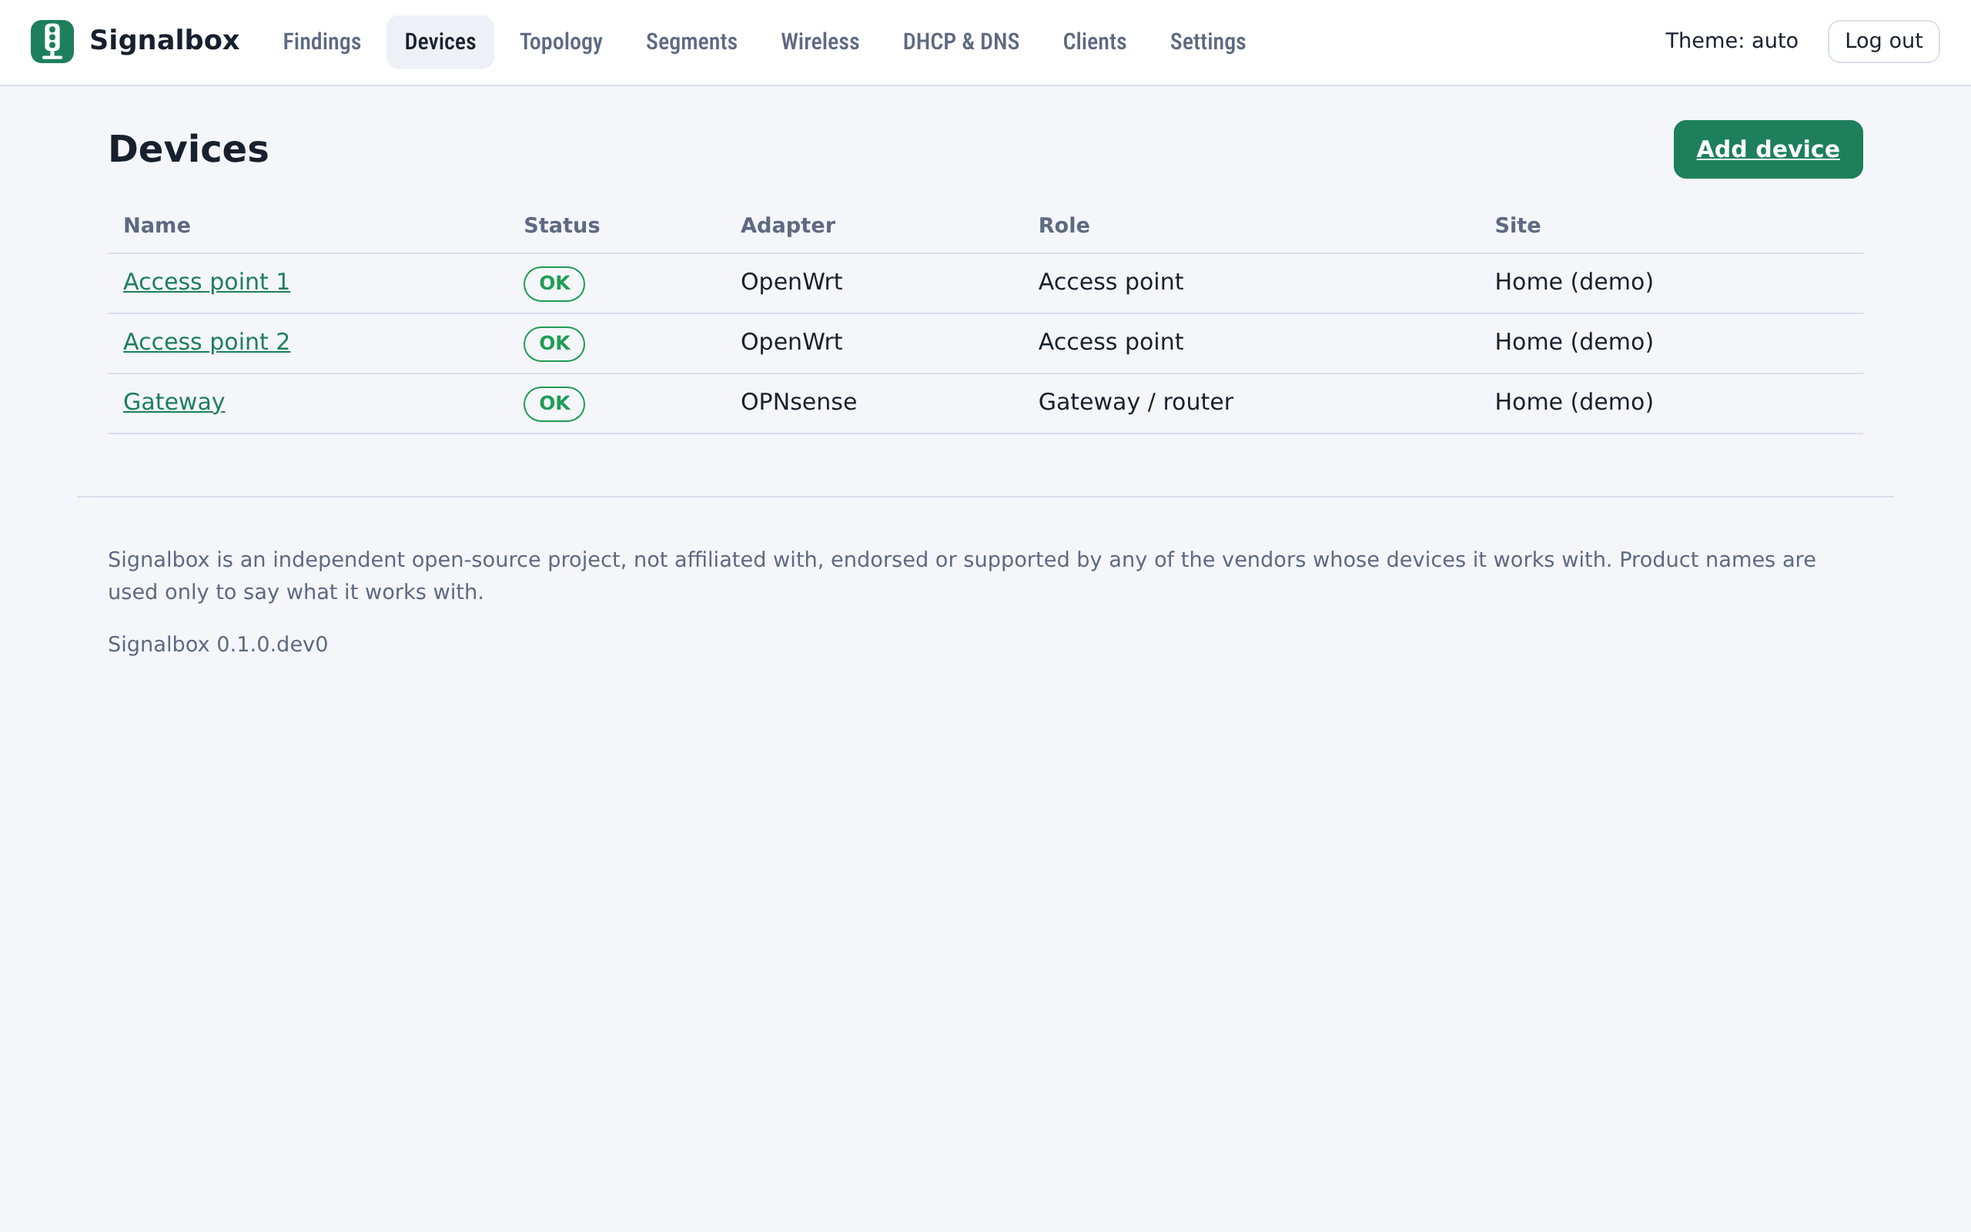
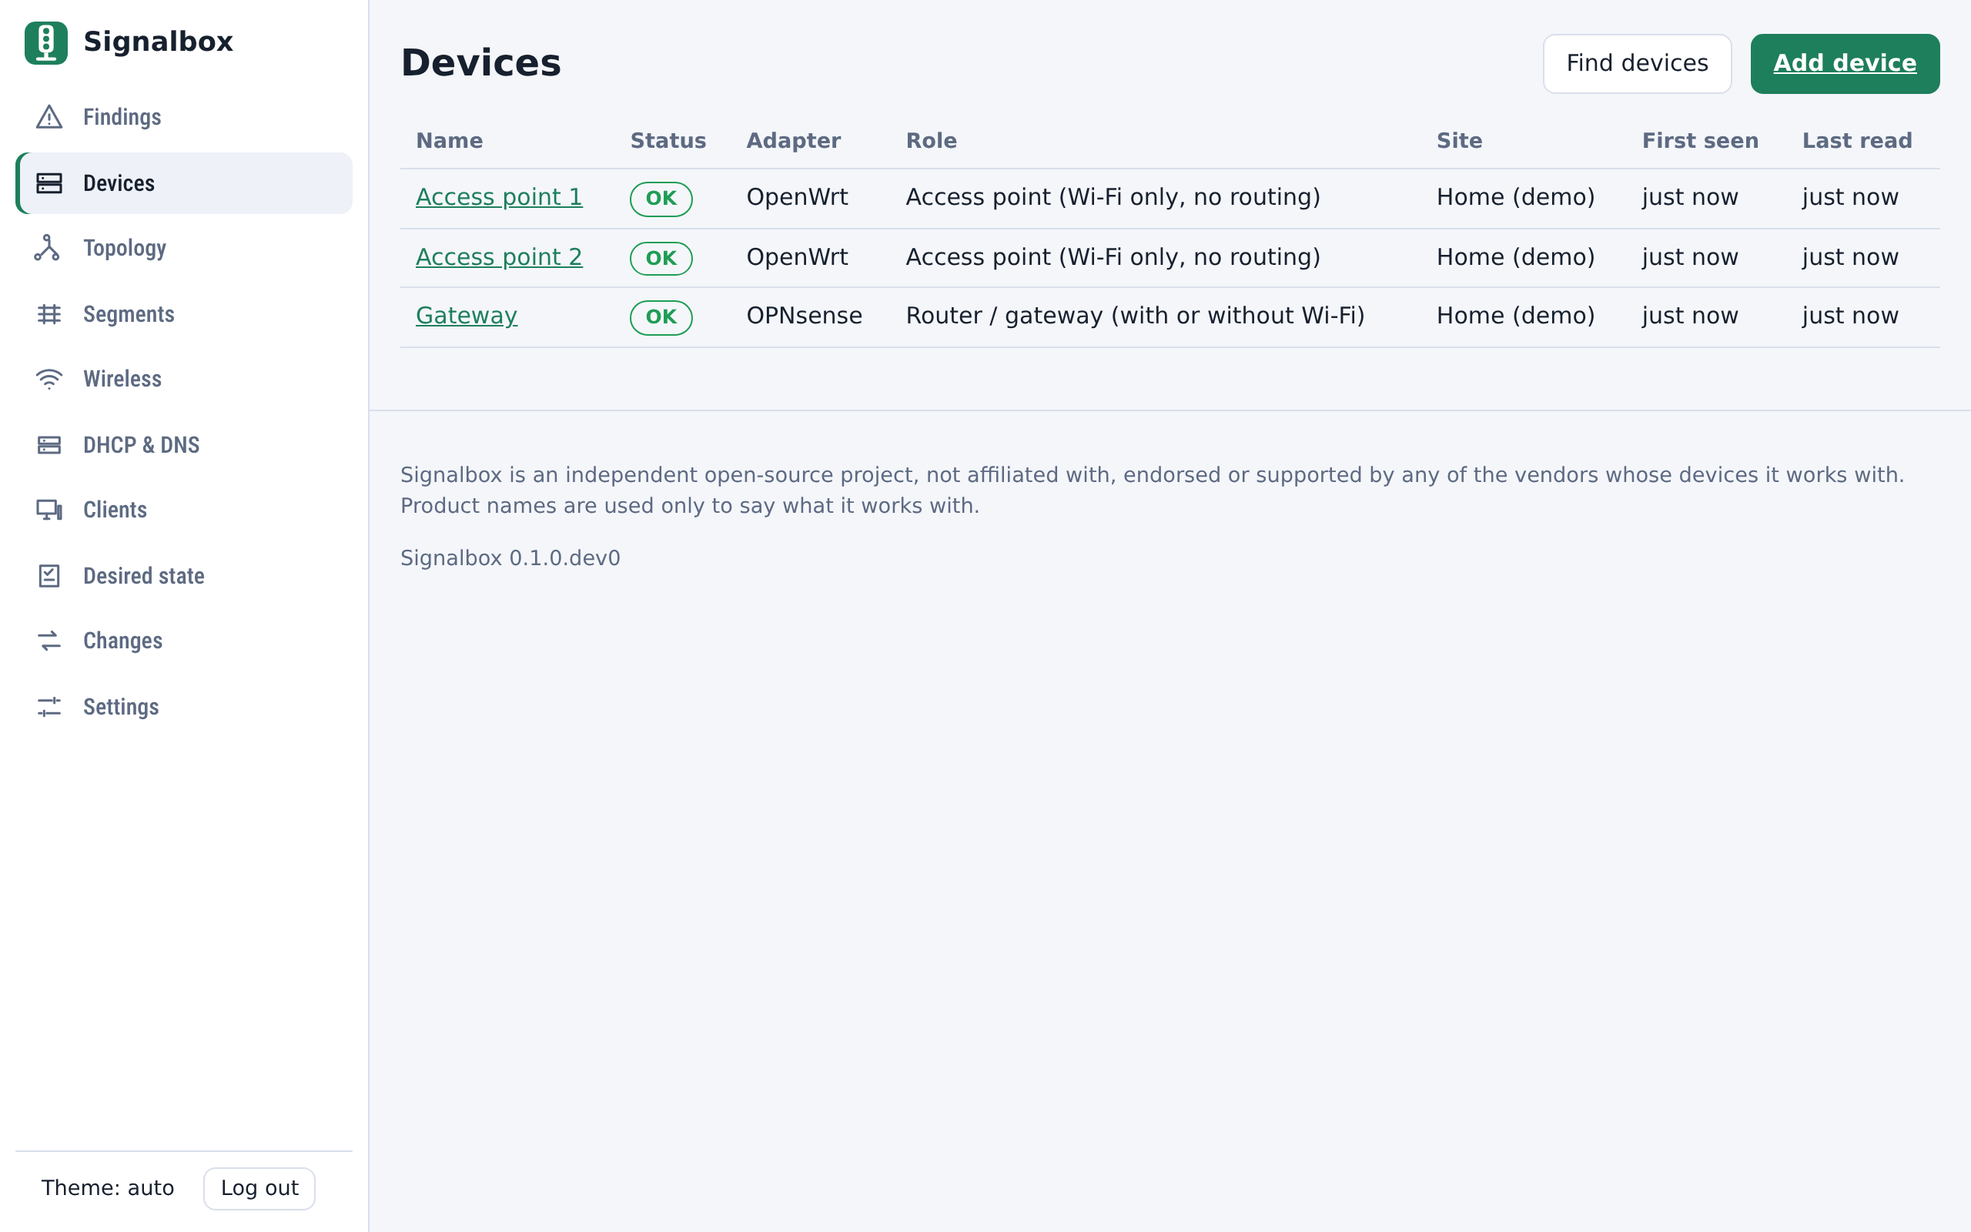
UI: side bar on wide screens, menu drawer on narrow ones (#230)
- Left side bar (icons, brand, theme, log out) from 1100 px; compact top bar with menu button below
- Drawer: aria-expanded, inert page behind, focus trap, Esc/scrim/navigation close
- e2e tests at phone, tablet and desktop sizes in both themes
- Screenshots regenerated (demo data), new phone menu shot; fix dark-theme switch in the tool

diff --git a/src/signalbox/web/static/nav.js b/src/signalbox/web/static/nav.js
@@ -1,0 +1,114 @@
+// Navigation shell: a side bar on wide screens, a compact top bar plus the same side bar as a drawer
+// on narrow ones. Icons are built with setAttribute, never from markup strings.
+import { h, s } from './util.js';
+
+export const WIDE = window.matchMedia('(min-width: 1100px)');
+
+// 24x24 stroke icons, one path string per shape.
+const ICONS = {
+  findings: ['M12 3 2.5 20h19L12 3z', 'M12 10v4', 'M12 17.2v.1'],
+  devices: ['M3 5h18v6H3z', 'M3 13h18v6H3z', 'M7 8h.01', 'M7 16h.01'],
+  topology: ['M12 4a2 2 0 1 0 0 .01', 'M5 19a2 2 0 1 0 0 .01', 'M19 19a2 2 0 1 0 0 .01', 'M12 6v5l-6 6', 'M12 11l6 6'],
+  segments: ['M4 7h16', 'M4 12h16', 'M4 17h16', 'M8 5v14', 'M16 5v14'],
+  wireless: ['M2.5 9a14 14 0 0 1 19 0', 'M5.5 12.5a9.5 9.5 0 0 1 13 0', 'M8.8 16a5 5 0 0 1 6.4 0', 'M12 19.5v.01'],
+  services: ['M4 6h16v5H4z', 'M4 13h16v5H4z', 'M8 8.5h.01', 'M8 15.5h.01'],
+  clients: ['M3 5h14v10H3z', 'M8 19h4', 'M10 15v4', 'M19 9h2v10h-2z'],
+  desired: ['M5 4h14v16H5z', 'M8.5 9l2 2 4-4', 'M8.5 15h7'],
+  changes: ['M4 8h13l-3-3', 'M20 16H7l3 3'],
+  settings: ['M4 7h10', 'M18 7h2', 'M4 17h2', 'M10 17h10', 'M16 5v4', 'M8 15v4'],
+  menu: ['M4 6h16', 'M4 12h16', 'M4 18h16'],
+  close: ['M6 6l12 12', 'M18 6L6 18'],
+};
+
+export function icon(name) {
+  return s(
+    'svg',
+    { class: 'icon', viewBox: '0 0 24 24', width: '20', height: '20', fill: 'none', stroke: 'currentColor', 'stroke-width': '1.8', 'stroke-linecap': 'round', 'stroke-linejoin': 'round', 'aria-hidden': 'true', focusable: 'false' },
+    ICONS[name].map((d) => s('path', { d })),
+  );
+}
+
+const FOCUSABLE = 'a[href], button:not([disabled])';
+let closeCurrent = null;
+
+// Close the drawer when the screen becomes wide while it is open.
+WIDE.addEventListener('change', () => {
+  if (WIDE.matches && closeCurrent) closeCurrent(false);
+});
+
+/**
+ * items: [[key, href, label]]; current: key of the active section; brand(): a logo node;
+ * actions: node with theme and log out. Returns {shell, content}; the caller fills content.
+ */
+export function buildShell({ items, current, brand, actions }) {
+  const currentLabel = (items.find(([key]) => key === current) || [])[2] || '';
+  const menuBtn = h(
+    'button',
+    { class: 'btn menu-btn', type: 'button', 'aria-label': 'Menu', 'aria-expanded': 'false', 'aria-controls': 'sidebar', 'data-testid': 'nav-menu' },
+    icon('menu'),
+  );
+  const topbar = h(
+    'header',
+    { class: 'topbar' },
+    menuBtn,
+    h('a', { class: 'brand', href: '#/', 'aria-label': 'Signalbox' }, brand(), h('span', { class: 'brand-text' }, 'Signalbox')),
+    h('span', { class: 'current-section', 'data-testid': 'nav-current' }, currentLabel),
+  );
+  const nav = h(
+    'nav',
+    { class: 'nav', 'aria-label': 'Main' },
+    items.map(([key, href, text]) =>
+      h('a', { href, 'aria-current': current === key ? 'page' : null, 'data-testid': `nav-${key}` }, icon(key), h('span', { class: 'nav-label' }, text)),
+    ),
+  );
+  const closeBtn = h('button', { class: 'btn ghost close-btn', type: 'button', 'aria-label': 'Close menu', 'data-testid': 'nav-close' }, icon('close'));
+  const sidebar = h(
+    'div',
+    { class: 'sidebar', id: 'sidebar' },
+    h('div', { class: 'sidebar-head' }, h('a', { class: 'brand', href: '#/', 'aria-label': 'Signalbox, start page' }, brand(), 'Signalbox'), closeBtn),
+    nav,
+    actions,
+  );
+  const scrim = h('div', { class: 'scrim', 'data-testid': 'nav-scrim' });
+  const content = h('div', { class: 'content' });
+  const shell = h('div', { class: 'shell' }, topbar, sidebar, scrim, content);
+
+  const setOpen = (open, restoreFocus = true) => {
+    shell.classList.toggle('drawer-open', open);
+    menuBtn.setAttribute('aria-expanded', String(open));
+    for (const el of [topbar, content]) el.toggleAttribute('inert', open);
+    if (open) {
+      closeCurrent = () => setOpen(false, false);
+      (nav.querySelector('[aria-current="page"]') || nav.querySelector('a')).focus();
+    } else {
+      closeCurrent = null;
+      if (restoreFocus && sidebar.contains(document.activeElement)) menuBtn.focus();
+    }
+  };
+  menuBtn.addEventListener('click', () => setOpen(!shell.classList.contains('drawer-open')));
+  closeBtn.addEventListener('click', () => setOpen(false));
+  scrim.addEventListener('click', () => setOpen(false));
+  // A link to the page already shown does not change the hash, so close explicitly.
+  nav.addEventListener('click', (e) => {
+    if (e.target.closest('a')) setOpen(false, false);
+  });
+  sidebar.addEventListener('keydown', (e) => {
+    if (!shell.classList.contains('drawer-open')) return;
+    if (e.key === 'Escape') {
+      e.preventDefault();
+      setOpen(false);
+    } else if (e.key === 'Tab') {
+      const stops = [...sidebar.querySelectorAll(FOCUSABLE)].filter((el) => el.offsetParent !== null);
+      const first = stops[0];
+      const last = stops[stops.length - 1];
+      if (e.shiftKey && document.activeElement === first) {
+        e.preventDefault();
+        last.focus();
+      } else if (!e.shiftKey && document.activeElement === last) {
+        e.preventDefault();
+        first.focus();
+      }
+    }
+  });
+  return { shell, content };
+}

diff --git a/src/signalbox/web/static/style.css b/src/signalbox/web/static/style.css
@@ -33,14 +33,36 @@ h1 { font-size: 1.5rem; } h2 { font-size: 1.2rem; } h3 { font-size: 1.02rem; }
 :focus-visible { outline: 2px solid var(--accent); outline-offset: 2px; }
 [hidden] { display: none !important; }
 
-.topbar { display: flex; align-items: center; gap: 16px; padding: 10px 20px; background: var(--surface); border-bottom: 1px solid var(--border); position: sticky; top: 0; z-index: 10; }
-.brand { display: flex; align-items: center; gap: 10px; font-weight: 700; font-size: 1.1rem; color: var(--text); text-decoration: none; }
-.brand .logo { width: 28px; height: 28px; border-radius: 7px; }
+.brand { display: flex; align-items: center; gap: 10px; font-weight: 700; font-size: 1.1rem; color: var(--text); text-decoration: none; white-space: nowrap; }
+.brand .logo { width: 28px; height: 28px; border-radius: 7px; flex: none; }
 .login .brand .logo { width: 40px; height: 40px; border-radius: 10px; }
-.nav { display: flex; gap: 4px; flex: 1; }
-.nav a { padding: 6px 12px; border-radius: 8px; color: var(--muted); text-decoration: none; font-weight: 500; }
-.nav a[aria-current="page"] { background: var(--surface-2); color: var(--text); }
-.topbar-actions { display: flex; gap: 8px; align-items: center; }
+.content { min-width: 0; }
+
+/* navigation: side bar on wide screens, drawer behind a menu button on narrow ones */
+.topbar { display: none; }
+.sidebar { position: fixed; inset: 0 auto 0 0; width: 240px; display: flex; flex-direction: column; gap: 8px; padding: 14px 10px; background: var(--surface); border-right: 1px solid var(--border); z-index: 40; overflow-y: auto; }
+.sidebar-head { display: flex; align-items: center; justify-content: space-between; padding: 0 6px 6px; }
+.close-btn { display: none; padding: 4px 6px; }
+.nav { display: flex; flex-direction: column; gap: 2px; flex: 1; }
+.nav a { display: flex; align-items: center; gap: 12px; padding: 9px 12px; border-radius: 8px; color: var(--muted); text-decoration: none; font-weight: 500; white-space: nowrap; }
+.nav a:hover { background: var(--surface-2); }
+.nav a[aria-current="page"] { background: var(--surface-2); color: var(--text); box-shadow: inset 3px 0 0 var(--accent); }
+.nav .icon, .menu-btn .icon, .close-btn .icon { flex: none; }
+.sidebar-actions { display: flex; gap: 8px; align-items: center; flex-wrap: wrap; padding: 10px 6px 0; border-top: 1px solid var(--border); }
+.scrim { display: none; }
+.content { margin-left: 240px; }
+@media (max-width: 1099px) {
+  .content { margin-left: 0; }
+  .topbar { display: flex; align-items: center; gap: 10px; padding: 6px 10px; background: var(--surface); border-bottom: 1px solid var(--border); position: sticky; top: 0; z-index: 10; }
+  .menu-btn { display: flex; padding: 5px 8px; flex: none; }
+  .current-section { margin-left: auto; min-width: 0; overflow: hidden; text-overflow: ellipsis; white-space: nowrap; font-weight: 600; }
+  .sidebar { width: min(300px, 86vw); transform: translateX(-100%); visibility: hidden; transition: transform .2s ease, visibility 0s .2s; box-shadow: var(--shadow); }
+  .drawer-open .sidebar { transform: none; visibility: visible; transition: transform .2s ease; }
+  .close-btn { display: block; }
+  .drawer-open .scrim { display: block; position: fixed; inset: 0; background: rgb(8 12 22 / 55%); z-index: 30; }
+}
+@media (max-width: 420px) { .brand-text { display: none; } }
+@media (prefers-reduced-motion: reduce) { .sidebar { transition: none !important; } }
 main { max-width: 1180px; margin: 0 auto; padding: 22px 20px 40px; }
 .banner { background: color-mix(in srgb, var(--warn) 18%, var(--surface)); border-bottom: 1px solid var(--warn); padding: 6px 20px; text-align: center; font-size: .9rem; }
 footer { max-width: 1180px; margin: 0 auto; padding: 18px 20px 30px; color: var(--muted); font-size: .85rem; border-top: 1px solid var(--border); }
@@ -191,11 +213,6 @@ legend { font-weight: 600; padding: 0 4px; }
 /* phones */
 @media (max-width: 640px) {
   main { padding: 10px 10px 24px; }
-  .topbar { position: static; padding: 8px 10px; gap: 8px; flex-wrap: wrap; }
-  .topbar-actions { margin-left: auto; }
-  .topbar-actions .btn { padding: 3px 8px; }
-  .nav { order: 3; flex-basis: 100%; flex-wrap: wrap; }
-  .nav a { padding: 4px 8px; }
   .card { padding: 12px; border-radius: 8px; }
   .page-head h1 { font-size: 1.25rem; }
   input[type=text], input[type=password], input[type=number], input[type=search], select, textarea { max-width: none; }

diff --git a/src/signalbox/web/static/app.js b/src/signalbox/web/static/app.js
@@ -1,7 +1,8 @@
 // Entry point: session handling, shell and hash router.
 import { get, onUnauthorized, post } from './api.js';
-import { append, clear, h } from './util.js';
+import { clear, h } from './util.js';
 import { showError } from './ui.js';
+import { buildShell } from './nav.js';
 import { renderFindings } from './views/findings.js';
 import { renderDevices, renderDeviceForm } from './views/devices.js';
 import { renderDevice } from './views/device.js';
@@ -146,14 +147,9 @@ async function render() {
   const route = routeInfo();
   const session = state.session;
   clear(root);
-  const nav = h(
-    'nav',
-    { class: 'nav', 'aria-label': 'Main' },
-    NAV.map(([key, href, text]) => h('a', { href, 'aria-current': route.nav === key ? 'page' : null, 'data-testid': `nav-${key}` }, text)),
-  );
   const actions = h(
     'div',
-    { class: 'topbar-actions' },
+    { class: 'sidebar-actions' },
     themeToggle(),
     h(
       'button',
@@ -169,9 +165,10 @@ async function render() {
       'Log out',
     ),
   );
-  append(root, [h('header', { class: 'topbar' }, h('a', { class: 'brand', href: '#/' }, LOGO(), 'Signalbox'), nav, actions)]);
+  const { shell, content } = buildShell({ items: NAV, current: route.nav, brand: LOGO, actions });
+  root.append(shell);
   const main = h('main', { id: 'main', tabindex: '-1' });
-  root.append(main, footer(session));
+  content.append(main, footer(session));
   try {
     if (route.name === 'findings') await renderFindings(main, ctx);
     else if (route.name === 'devices') await renderDevices(main, ctx);

diff --git a/tests/e2e/test_ui.py b/tests/e2e/test_ui.py
@@ -380,7 +380,7 @@ def test_phone_has_no_horizontal_scroll(page: Any, server: Any, hash_: str) -> N
     page.goto(server.url)
     page.get_by_test_id("login-password").fill(PASSWORD)
     page.get_by_test_id("login-submit").click()
-    page.get_by_test_id("logout").wait_for()
+    page.get_by_test_id("logout").wait_for(state="attached")
     page.server = server
     add_site(page)
     add_lab(page, "Router")
@@ -690,3 +690,125 @@ def test_acknowledge_a_finding_and_annotate_objects(app: Any) -> None:
     app.get_by_test_id("client-notes").click()
     app.get_by_test_id("note-remove").click()
     expect(app.get_by_test_id("client-label")).to_have_count(0)
+
+
+def _login(page: Any, server: Any, width: int, height: int) -> None:
+    page.set_viewport_size({"width": width, "height": height})
+    page.set_default_timeout(15000)
+    page.goto(server.url)
+    page.get_by_test_id("login-password").fill(PASSWORD)
+    page.get_by_test_id("login-submit").click()
+    page.get_by_test_id("nav-findings").wait_for(state="attached")
+    page.server = server
+
+
+def _too_wide(page: Any) -> list[str]:
+    result: list[str] = page.evaluate(
+        """() => [...document.querySelectorAll('body *')]
+          .filter((e) => { const r = e.getBoundingClientRect();
+            return r.width > 0 && getComputedStyle(e).visibility !== 'hidden'
+              && !e.closest('.table-wrap, .topo-wrap, pre, svg')
+              && r.right > window.innerWidth + 1; })
+          .map((e) => e.tagName + '.' + e.className)"""
+    )
+    return result
+
+
+def _no_wrapped_labels(page: Any) -> None:
+    heights = page.evaluate(
+        "[...document.querySelectorAll('.nav a')].map((a) => a.getBoundingClientRect().height)"
+    )
+    assert max(heights) - min(heights) < 2, heights
+
+
+@pytest.mark.parametrize("theme", ["light", "dark"])
+@pytest.mark.parametrize("size", [(390, 844), (320, 640), (820, 1180)])
+def test_narrow_screens_use_a_drawer(
+    page: Any, server: Any, size: tuple[int, int], theme: str
+) -> None:
+    _login(page, server, *size)
+    page.evaluate(f"localStorage.setItem('theme', '{theme}')")
+    page.reload()
+    menu = page.get_by_test_id("nav-menu")
+    expect(menu).to_be_visible()
+    expect(menu).to_have_attribute("aria-expanded", "false")
+    expect(page.get_by_test_id("logout")).to_be_hidden()
+    expect(page.get_by_test_id("nav-current")).to_have_text("Findings")
+    assert page.evaluate("document.documentElement.scrollWidth <= window.innerWidth")
+    assert page.locator("header.topbar").bounding_box()["height"] < 70  # one row
+
+    menu.click()
+    expect(menu).to_have_attribute("aria-expanded", "true")
+    expect(page.locator("nav[aria-label=Main]")).to_be_visible()
+    expect(page.get_by_test_id("nav-findings")).to_be_focused()
+    expect(page.get_by_test_id("theme")).to_be_visible()
+    expect(page.get_by_test_id("logout")).to_be_visible()
+    _no_wrapped_labels(page)
+    assert _too_wide(page) == []
+    expect(page.get_by_test_id("theme")).to_have_text(f"Theme: {theme}")
+    page.get_by_test_id("theme").click()
+    expect(page.get_by_test_id("theme")).not_to_have_text(f"Theme: {theme}")
+
+    page.keyboard.press("Escape")  # Esc closes and gives the focus back
+    expect(menu).to_have_attribute("aria-expanded", "false")
+    expect(menu).to_be_focused()
+    expect(page.get_by_test_id("logout")).to_be_hidden()
+
+    menu.click()  # a tap outside closes
+    page.get_by_test_id("nav-scrim").click(position={"x": size[0] - 5, "y": 300})
+    expect(menu).to_have_attribute("aria-expanded", "false")
+
+    menu.click()  # focus stays inside the drawer
+    for _ in range(14):
+        page.keyboard.press("Tab")
+        assert page.evaluate("!!document.activeElement.closest('.sidebar')")
+
+    page.get_by_test_id("nav-services").click()  # closes on navigation
+    expect(page.get_by_test_id("nav-current")).to_have_text("DHCP & DNS")
+    expect(menu).to_have_attribute("aria-expanded", "false")
+    expect(page.get_by_test_id("logout")).to_be_hidden()
+    menu.click()
+    expect(page.get_by_test_id("nav-services")).to_have_attribute("aria-current", "page")
+    page.get_by_test_id("nav-services").click()  # same page: still closes
+    expect(menu).to_have_attribute("aria-expanded", "false")
+    menu.click()
+    page.get_by_test_id("logout").click()
+    expect(page.get_by_test_id("login-submit")).to_be_visible()
+
+
+@pytest.mark.parametrize("theme", ["light", "dark"])
+@pytest.mark.parametrize("size", [(1280, 800), (1440, 900), (1100, 700)])
+def test_wide_screens_have_a_side_bar(
+    page: Any, server: Any, size: tuple[int, int], theme: str
+) -> None:
+    _login(page, server, *size)
+    page.evaluate(f"localStorage.setItem('theme', '{theme}')")
+    page.reload()
+    expect(page.get_by_test_id("nav-menu")).to_be_hidden()
+    for key in [
+        "findings", "devices", "topology", "segments", "wireless",
+        "services", "clients", "desired", "changes", "settings",
+    ]:  # fmt: skip
+        expect(page.get_by_test_id(f"nav-{key}")).to_be_visible()
+    expect(page.get_by_test_id("theme")).to_be_visible()
+    expect(page.get_by_test_id("logout")).to_be_visible()
+    _no_wrapped_labels(page)
+    assert _too_wide(page) == []
+    box = page.locator(".sidebar").bounding_box()
+    main = page.locator("main").bounding_box()
+    assert box["x"] == 0 and main["x"] >= box["width"]
+    page.get_by_test_id("nav-services").click()
+    expect(page.get_by_test_id("nav-services")).to_have_attribute("aria-current", "page")
+    expect(page.get_by_test_id("nav-findings")).not_to_have_attribute("aria-current", "page")
+    page.get_by_test_id("logout").click()
+    expect(page.get_by_test_id("login-submit")).to_be_visible()
+
+
+def test_drawer_closes_when_the_screen_gets_wide(page: Any, server: Any) -> None:
+    _login(page, server, 800, 900)
+    page.get_by_test_id("nav-menu").click()
+    page.set_viewport_size({"width": 1280, "height": 900})
+    expect(page.get_by_test_id("nav-menu")).to_be_hidden()
+    expect(page.get_by_test_id("logout")).to_be_visible()
+    page.get_by_test_id("nav-devices").click()
+    expect(page.get_by_test_id("nav-devices")).to_have_attribute("aria-current", "page")

diff --git a/tools/screenshots.py b/tools/screenshots.py
@@ -68,7 +68,7 @@ def main() -> None:
                     login(page, base)
                     for name, route in DESKTOP:
                         shoot(page, base, name, route)
-                    page.evaluate("localStorage.set_item('theme', 'dark')")
+                    page.evaluate("localStorage.setItem('theme', 'dark')")
                     page.reload()
                     shoot(page, base, "findings-dark", "#/")
                     page.evaluate("localStorage.removeItem('theme')")
@@ -76,6 +76,9 @@ def main() -> None:
                     login(phone, base)
                     for name, route in PHONE:
                         shoot(phone, base, name, route)
+                    phone.get_by_test_id("nav-menu").click()
+                    phone.wait_for_timeout(400)
+                    phone.screenshot(path=str(OUT / "phone-menu.png"), full_page=False)
                     browser.close()
         finally:
             svc.close()

diff --git a/docs/screenshots.md b/docs/screenshots.md
@@ -9,3 +9,4 @@ Taken from `signalbox demo` (a simulated OPNsense gateway and two OpenWrt access
 | ![Devices](screenshots/devices.png) Devices with their status | ![Topology](screenshots/topology.png) Topology: cables, ports, VLANs per link |
 | ![Wireless](screenshots/wireless.png) Wi-Fi: SSIDs across access points | ![Segments](screenshots/segments.png) Segments (VLANs) and their ports |
 | ![Phone, findings](screenshots/phone-findings.png) Findings on a phone | ![Phone, devices](screenshots/phone-devices.png) Devices on a phone |
+| ![Phone, menu](screenshots/phone-menu.png) The menu drawer on a phone | |
